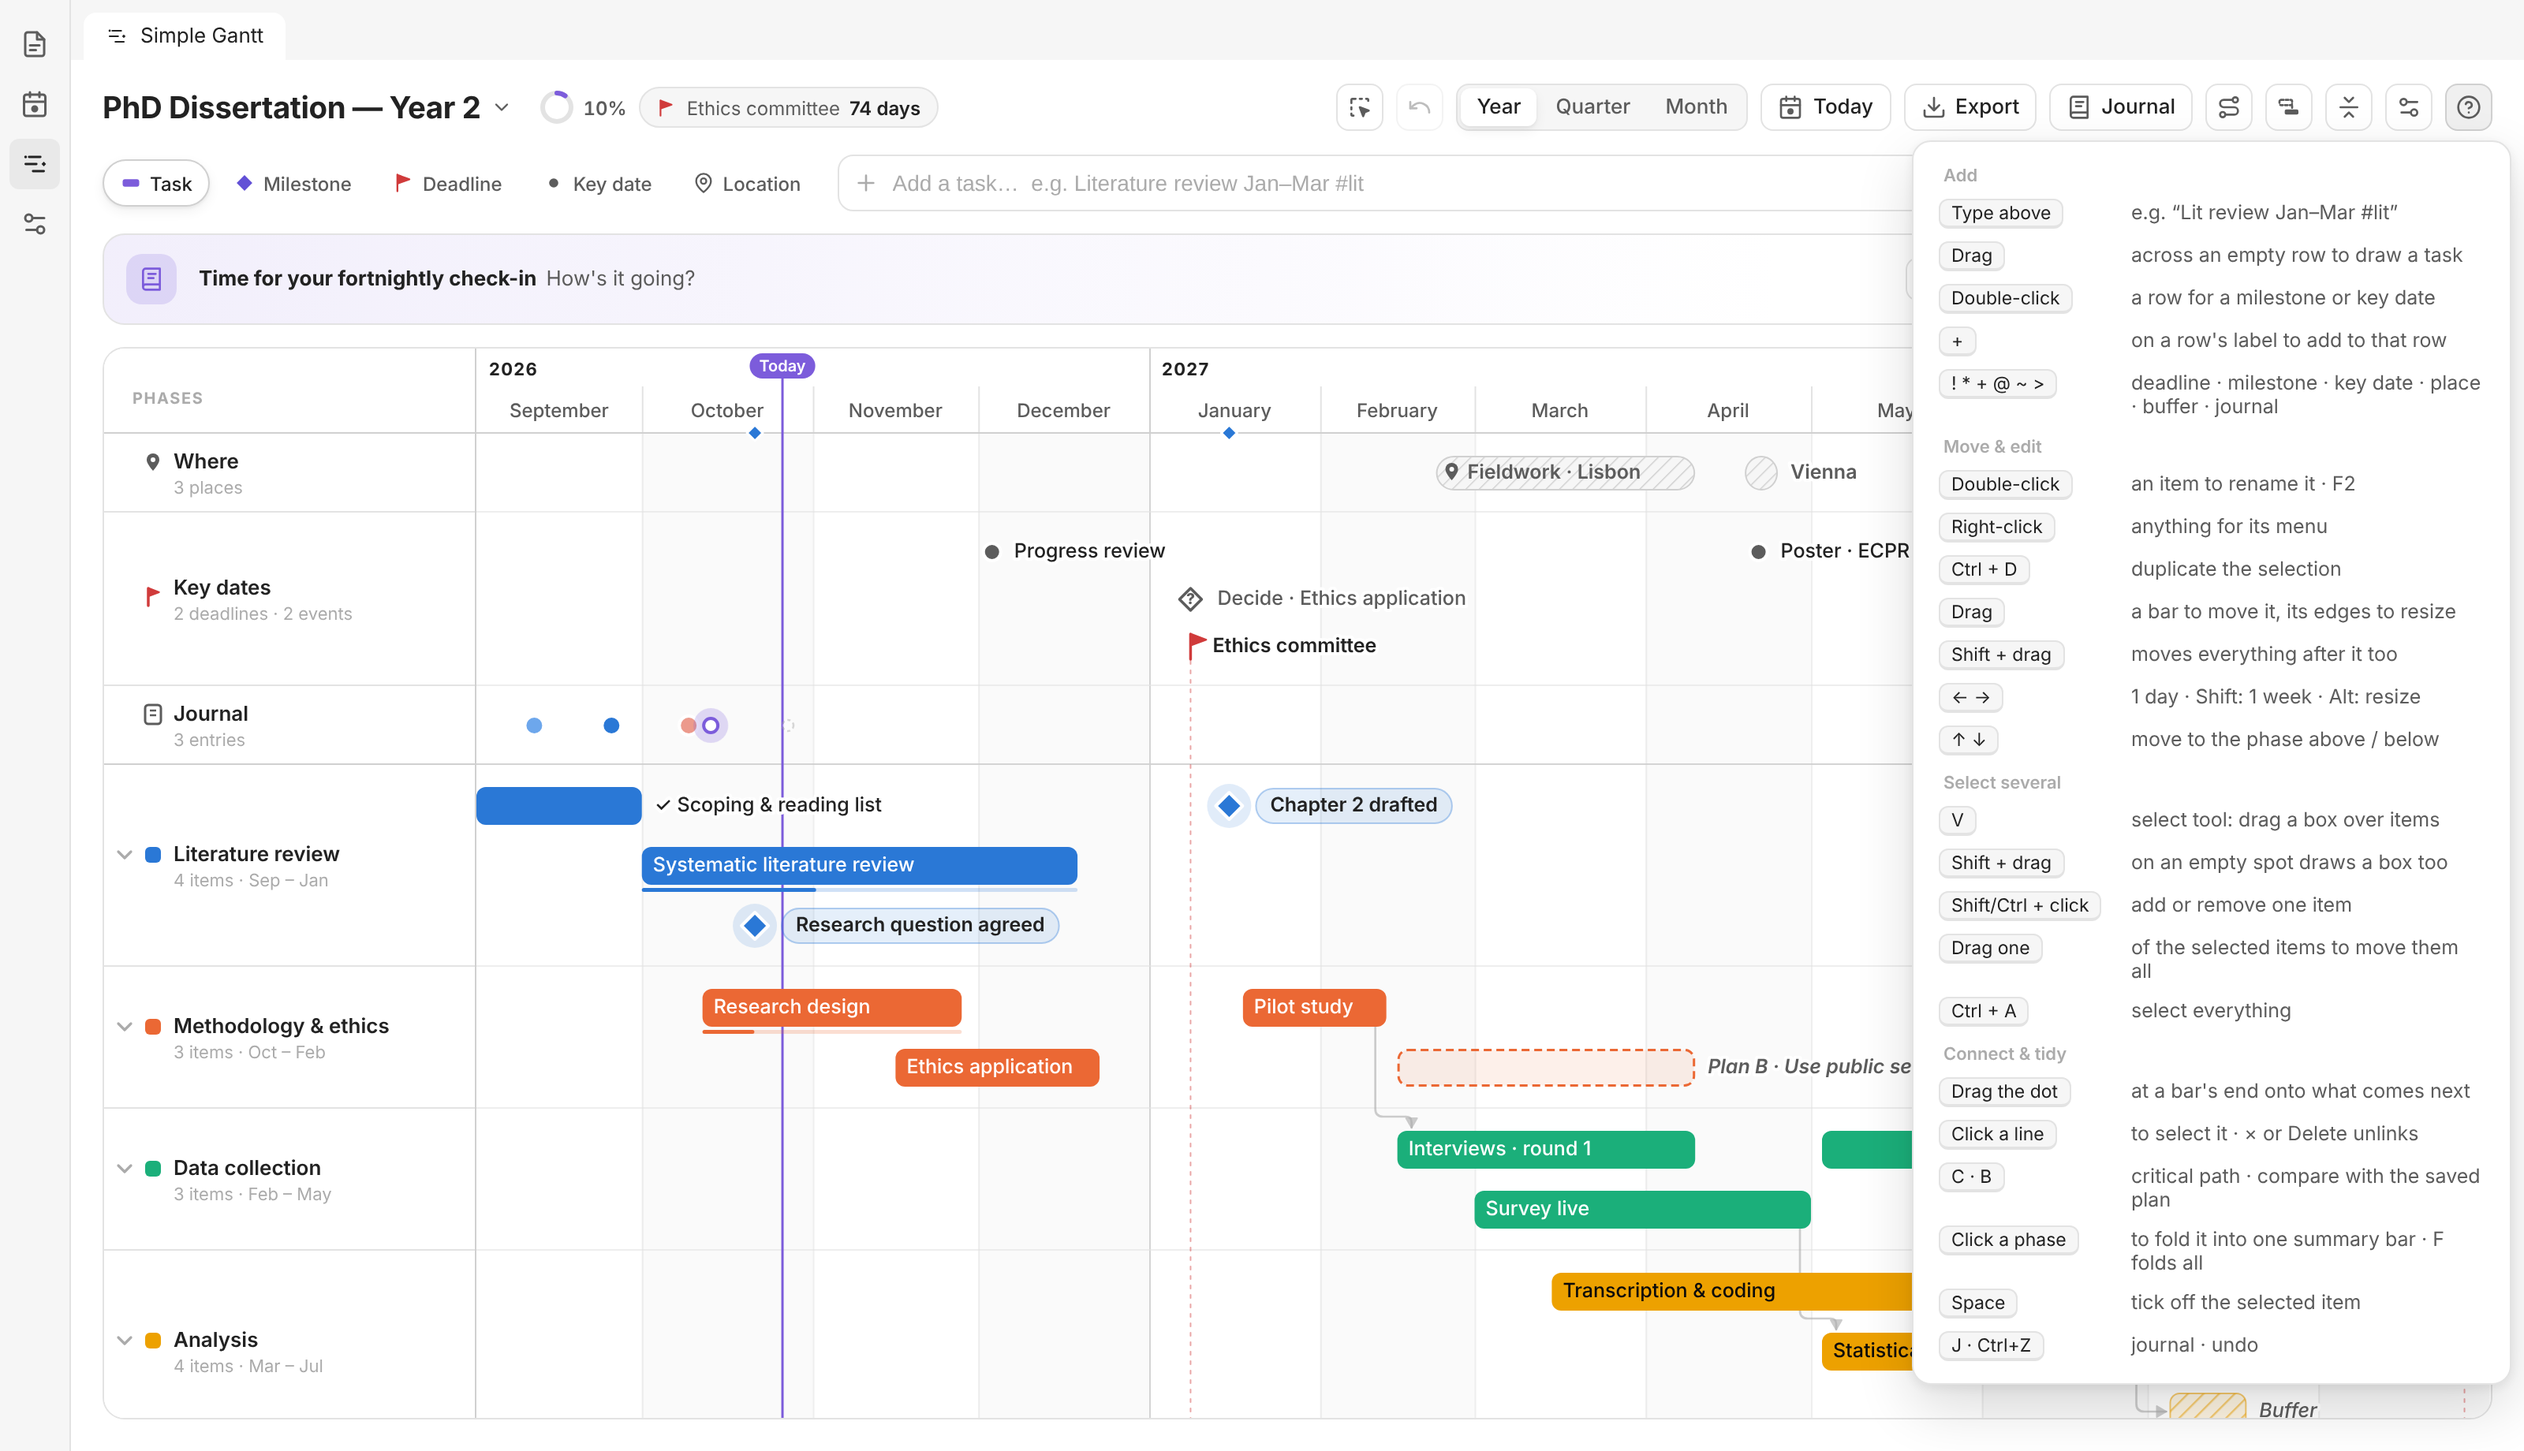
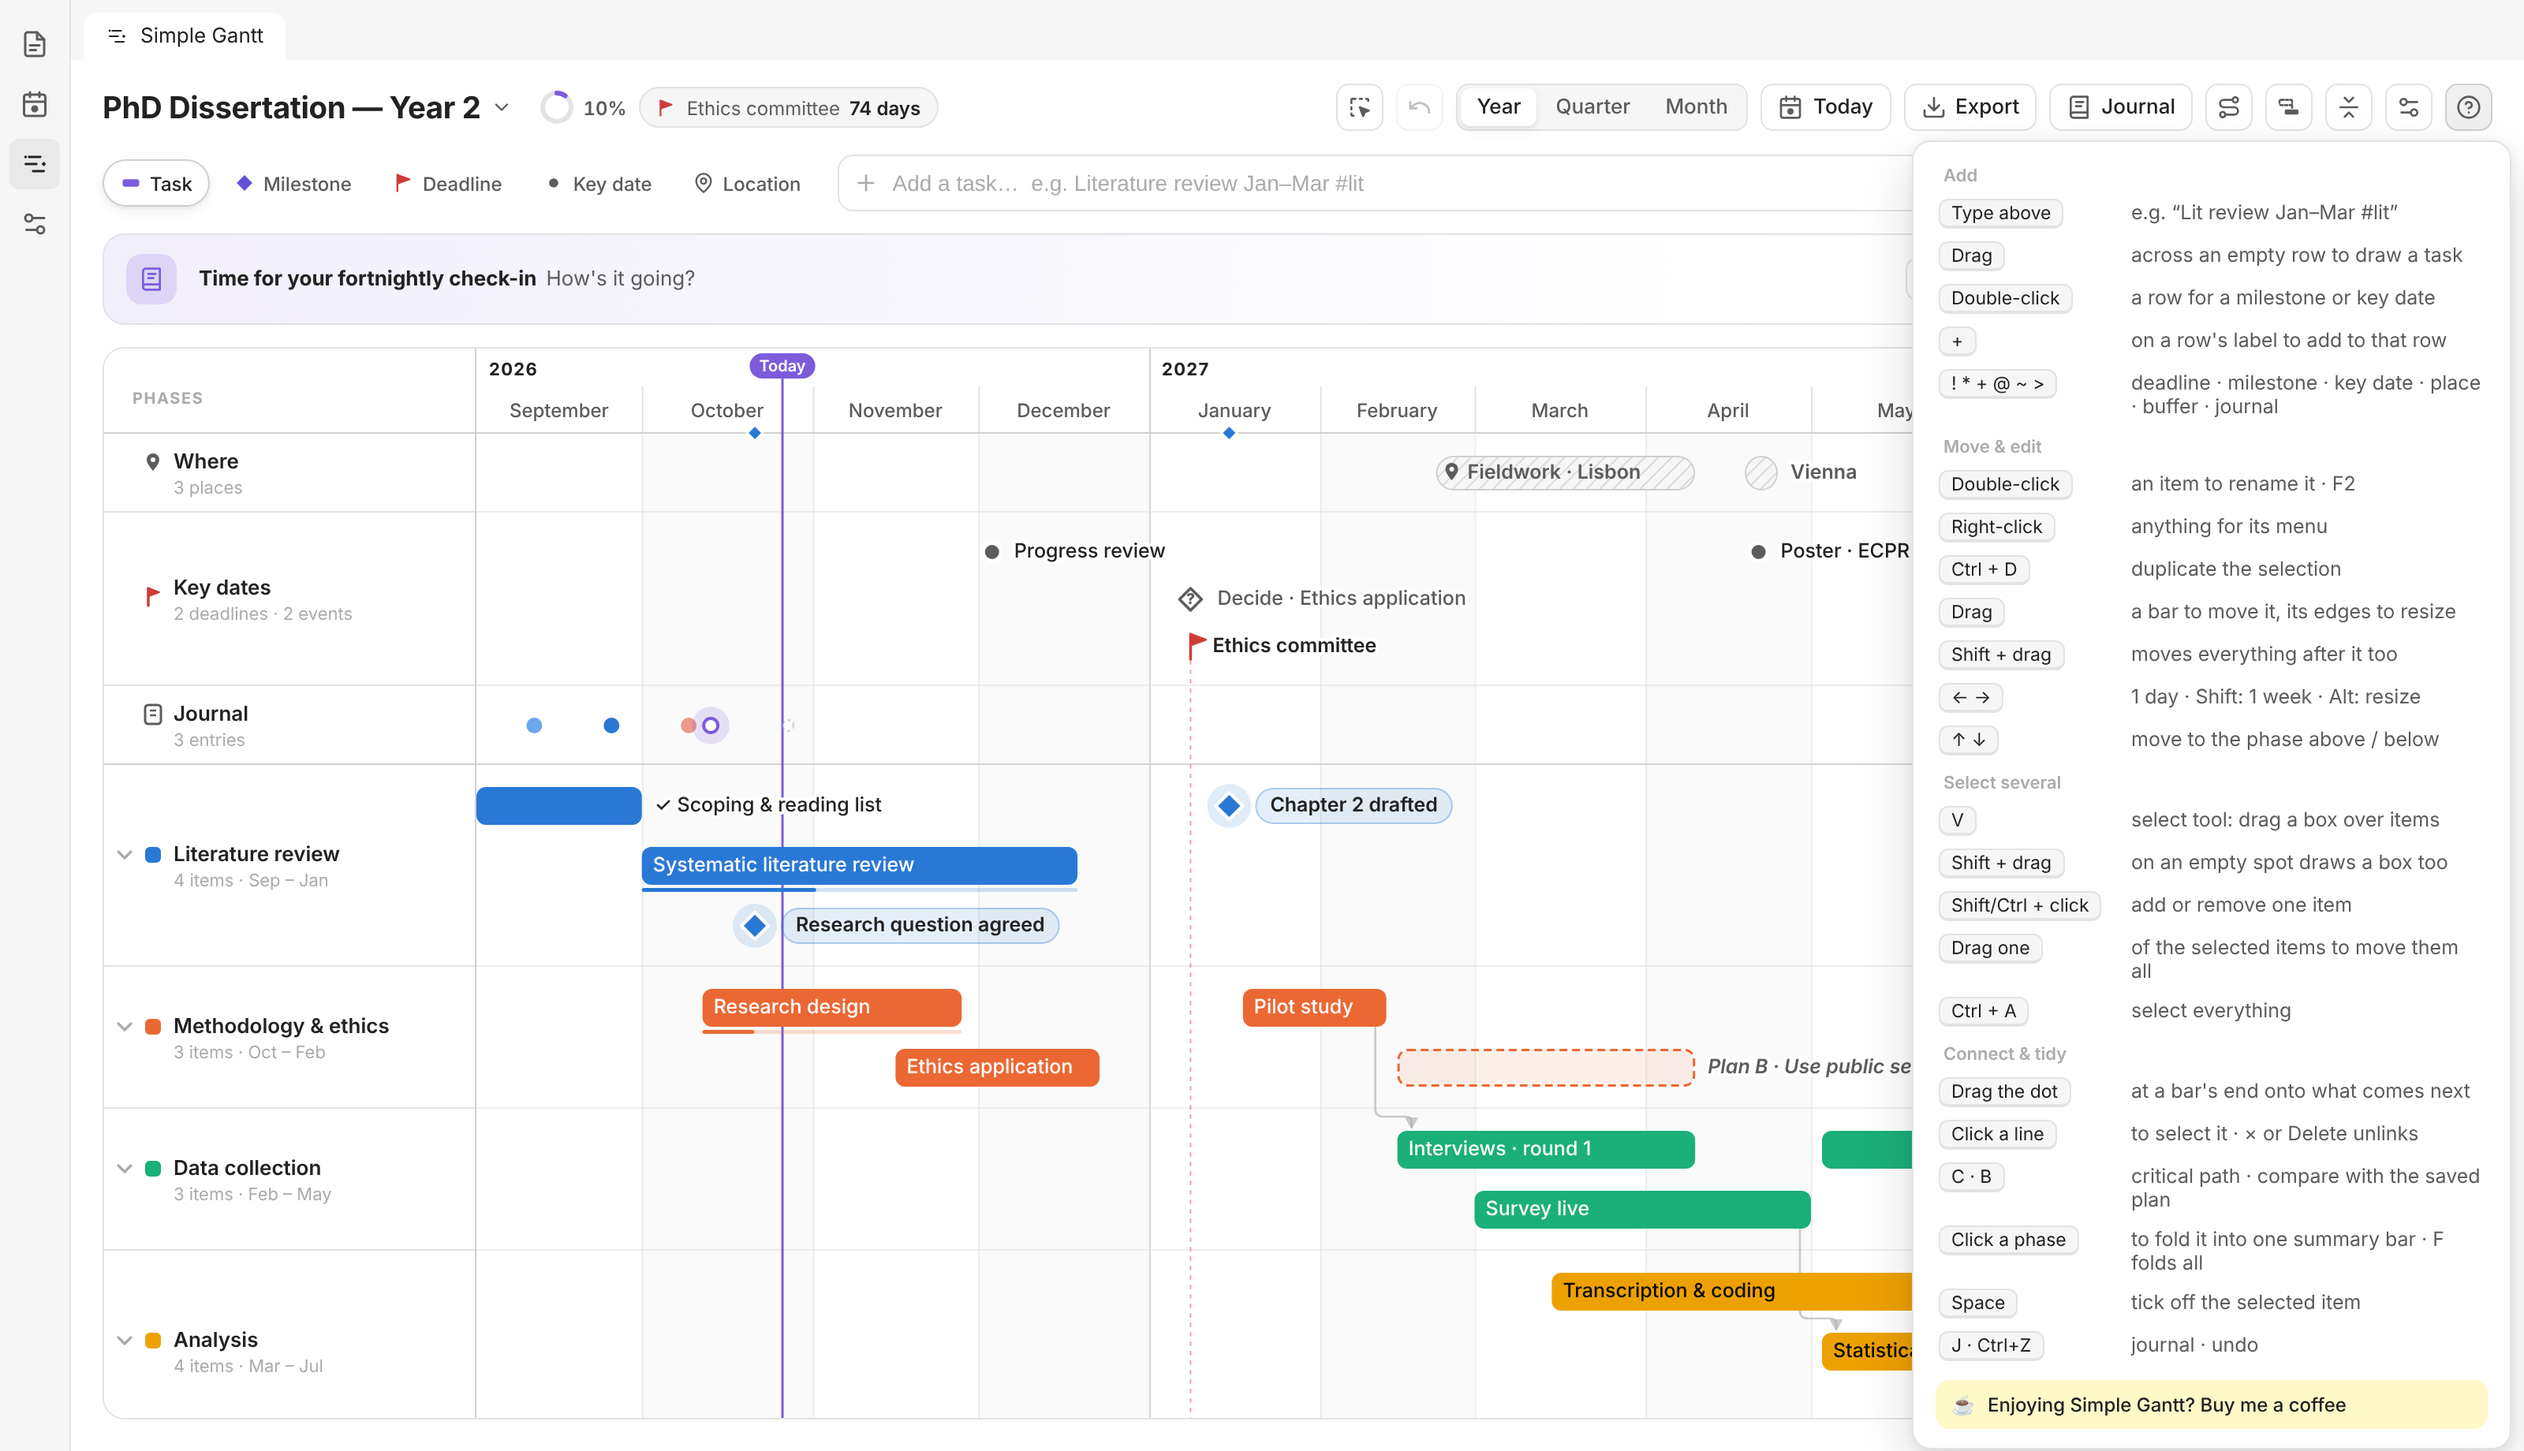
0.6.3: Readable README on every screen, Buy me a coffee
- README: no forced line breaks, highlights as a list instead of a cramped three-column table,
  the item table no longer nested in a list, a real header for the keyboard table, two-column gallery
- Buy me a coffee: badge and button in the README, Obsidian's Donate button (fundingUrl),
  GitHub's Sponsor button (FUNDING.yml), and a small link in the settings and help card
- The help card scrolls on short windows

Changed region(s): [[0.75, 0.9293, 1.0, 1.0]]

diff --git a/src/settings.ts b/src/settings.ts
@@ -1,5 +1,6 @@
 import { App, PluginSettingTab, Setting, SettingDefinitionItem } from "obsidian";
 import type SimpleGanttPlugin from "./main";
+import { SUPPORT_URL } from "./support";
 
 export interface SimpleGanttSettings {
 	/** Folder where new projects are created. */
@@ -37,7 +38,23 @@ export class SimpleGanttSettingTab extends PluginSettingTab {
 				desc: "Where PNG and SVG exports are saved. Leave empty to save next to the timeline note.",
 				control: { type: "folder", key: "exportFolder", placeholder: "Next to the note", includeRoot: true },
 			},
+			{
+				type: "group",
+				heading: "Support",
+				items: [
+					{
+						name: "Enjoying Simple Gantt?",
+						desc: "It's free and open source. If it helps your planning, you can say thanks with a coffee.",
+						aliases: ["donate", "coffee", "support"],
+						render: (setting) => this.coffeeButton(setting),
+					},
+				],
+			},
 		];
+	}
+
+	private coffeeButton(setting: Setting) {
+		setting.addButton((b) => b.setButtonText("☕ Buy me a coffee").onClick(() => window.open(SUPPORT_URL)));
 	}
 
 	getControlValue(key: string): unknown {
@@ -74,5 +91,12 @@ export class SimpleGanttSettingTab extends PluginSettingTab {
 					await this.plugin.saveSettings();
 				}),
 			);
+
+		new Setting(containerEl).setName("Support").setHeading();
+		this.coffeeButton(
+			new Setting(containerEl)
+				.setName("Enjoying Simple Gantt?")
+				.setDesc("It's free and open source. If it helps your planning, you can say thanks with a coffee."),
+		);
 	}
 }

diff --git a/styles.css b/styles.css
@@ -961,7 +961,7 @@
 	cursor: pointer;
 }
 .sg-link-btn:hover { color: var(--text-normal); border-color: var(--interactive-accent); }
-.sg-help { width: 380px; padding: 8px 10px 10px; }
+.sg-help { width: 380px; max-height: calc(100% - var(--sg-menu-y, 8px) - 10px); overflow-y: auto; padding: 8px 10px 10px; }
 .sg-help-row { display: grid; grid-template-columns: 112px 1fr; gap: 10px; align-items: baseline; padding: 4px 6px; font-size: 12.5px; color: var(--text-muted); }
 .sg-help-row kbd {
 	justify-self: start;
@@ -1232,6 +1232,21 @@
 	animation: sg-menu-in 0.15s var(--sg-ease);
 }
 .sg-root .sg-rename:focus { outline: none; box-shadow: 0 0 0 3px color-mix(in srgb, var(--interactive-accent) 25%, transparent), 0 6px 20px rgba(0, 0, 0, 0.16); }
+
+.sg-root .sg-help-support {
+	display: flex;
+	align-items: center;
+	gap: 8px;
+	margin: 8px 4px 2px;
+	padding: 8px 10px;
+	border-radius: 9px;
+	background: color-mix(in srgb, #ffdd00 22%, transparent);
+	color: var(--text-normal);
+	font-size: 12px;
+	font-weight: 500;
+	text-decoration: none;
+}
+.sg-root .sg-help-support:hover { background: color-mix(in srgb, #ffdd00 38%, transparent); }
 
 @container (max-width: 1240px) {
 	.sg-countdown span { display: none; }

diff --git a/src/ui/board.ts b/src/ui/board.ts
@@ -16,6 +16,7 @@ import {
 } from "../core/types";
 import { confetti } from "./confetti";
 import { icon } from "./icons";
+import { SUPPORT_URL } from "../support";
 
 type PanelFocus = "title" | "review" | "planb" | null;
 
@@ -1693,6 +1694,11 @@ export class GanttBoard {
 				["Space", "tick off the selected item"],
 				["J · Ctrl+Z", "journal · undo"],
 			]);
+			h("a", {
+				cls: "sg-help-support",
+				kids: [span("☕"), span("Enjoying Simple Gantt? Buy me a coffee")],
+				attrs: { href: SUPPORT_URL, target: "_blank", rel: "noopener" },
+			}, menu);
 		});
 	}
 

diff --git a/src/support.ts b/src/support.ts
@@ -1,0 +1,2 @@
+/** Where "Buy me a coffee" goes (also the manifest's fundingUrl). */
+export const SUPPORT_URL = "https://buymeacoffee.com/nexsiz";

diff --git a/README.md b/README.md
@@ -7,11 +7,9 @@
 
 <h1 align="center">Simple Gantt</h1>
 
-<p align="center">
-  <b>A calm, beautiful Gantt chart for Obsidian.</b><br>
-  Plan a project, or a whole dissertation year, on one timeline. Your plan stays a normal note,<br>
-  and one click gives you a print-ready chart for your report.
-</p>
+<p align="center"><b>A calm, beautiful Gantt chart for Obsidian.</b></p>
+
+<p align="center">Plan a project, or a whole dissertation year, on one timeline. Your plan stays a normal note, and one click gives you a print-ready chart for your report.</p>
 
 <p align="center">
   <a href="https://github.com/Nexziz/simple-gantt/releases/latest"><img alt="Latest release" src="https://img.shields.io/github/v/release/Nexziz/simple-gantt?style=flat-square&color=7c5cff&label=release"></a>
@@ -19,6 +17,7 @@
   <img alt="Obsidian 1.7.2 or newer" src="https://img.shields.io/badge/Obsidian-1.7.2%2B-483699?style=flat-square&logo=obsidian&logoColor=white">
   <img alt="Works on mobile" src="https://img.shields.io/badge/mobile-yes-555?style=flat-square">
   <a href="LICENSE"><img alt="MIT license" src="https://img.shields.io/github/license/Nexziz/simple-gantt?style=flat-square&color=555"></a>
+  <a href="https://buymeacoffee.com/nexsiz"><img alt="Buy me a coffee" src="https://img.shields.io/badge/Buy%20me%20a%20coffee-FFDD00?style=flat-square&logo=buymeacoffee&logoColor=black"></a>
 </p>
 
 <p align="center">
@@ -27,25 +26,13 @@
   <a href="#quick-add">Quick add</a> ·
   <a href="#keyboard-and-mouse">Keyboard &amp; mouse</a> ·
   <a href="#where-your-data-lives">Your data</a> ·
-  <a href="#install">Install</a>
+  <a href="#install">Install</a> ·
+  <a href="#support">Support</a>
 </p>
 
-<table>
-  <tr>
-    <td width="33%" valign="top">
-      <h3>⚡ One line to add anything</h3>
-      Type <code>Interviews 3–28 May #data</code> and it lands in the right phase on the right dates. Deadlines, milestones, places and journal notes work the same way.
-    </td>
-    <td width="33%" valign="top">
-      <h3>🖐 Drag, link, tick off</h3>
-      Move and resize bars, select several like on a Canvas, and link steps so a delay pushes what comes after. Ticking something off gets you confetti.
-    </td>
-    <td width="33%" valign="top">
-      <h3>📄 Just a note</h3>
-      Each timeline is a Markdown note with readable YAML. It syncs, works with git, and is still there if you ever uninstall the plugin. No accounts, no network.
-    </td>
-  </tr>
-</table>
+- ⚡ **One line to add anything.** Type `Interviews 3–28 May #data` and it lands in the right phase on the right dates. Deadlines, milestones, places and journal notes work the same way.
+- 🖐 **Drag, link, tick off.** Move and resize bars, select several like on a Canvas, and link steps so a delay pushes what comes after. Ticking something off gets you confetti.
+- 📄 **Just a note.** Each timeline is a Markdown note with readable YAML. It syncs, works with git, and is still there if you ever uninstall the plugin. No accounts, no network.
 
 ## See it in action
 
@@ -94,16 +81,15 @@ Year, quarter or month, with smooth zooming. Fold a phase into one summary bar, 
 <details open>
 <summary><b>Plan</b></summary>
 
-- **Year overview first.** The board opens on the whole project with a today line. Zoom to **Quarter** or **Month**, or use Ctrl/Cmd + scroll.
-- **Five kinds of items**
+| Item | Used for |
+|---|---|
+| ▬ **Task** | Work over a period, grouped into colour-coded phases. Optional progress. |
+| ◆ **Milestone** | A moment you reach, e.g. "Chapter 2 drafted". |
+| ⚑ **Deadline** | A hard date: a red flag with a dashed rule through the whole chart. |
+| ● **Key date** | Meetings, reviews, conferences. |
+| ⌖ **Location** | Where you'll be: fieldwork, trips, retreats. |
 
-  | | Item | Used for |
-  |---|---|---|
-  | ▬ | **Task** | Work over a period, grouped into colour-coded phases. Optional progress. |
-  | ◆ | **Milestone** | A moment you reach, e.g. "Chapter 2 drafted". |
-  | ⚑ | **Deadline** | A hard date: a red flag with a dashed rule through the whole chart. |
-  | ● | **Key date** | Meetings, reviews, conferences. |
-  | ⌖ | **Location** | Where you'll be: fieldwork, trips, retreats. |
+- **Year overview first.** The board opens on the whole project with a today line. Zoom to **Quarter** or **Month**, or use Ctrl/Cmd + scroll.
 - **Quick add** understands dates, durations, phases, types and progress (see [Quick add](#quick-add)).
 - **Right-click an empty row** to add a task, milestone, deadline or place exactly there, with its name ready to type.
 - **Buffer time:** plan slack for the delays that always come (hatched bars, `~` in quick add).
@@ -156,13 +142,13 @@ Year, quarter or month, with smooth zooming. Fold a phase into one summary bar, 
 - Follows your Obsidian theme (light and dark), and works on mobile.
 </details>
 
-| Print export | Dark, quarter zoom | Journal |
-|---|---|---|
-| ![Export](docs/images/01-export-light.png) | ![Dark](docs/images/05-dark-quarter.png) | ![Journal](docs/images/13-journal.png) |
-
-| Plan B | Editing | Features on/off |
-|---|---|---|
-| ![Plan B](docs/images/12-plan-b.png) | ![Edit panel](docs/images/04-edit-panel.png) | ![Features](docs/images/19-features.png) |
+| Print export | Dark, quarter zoom |
+|---|---|
+| ![Export](docs/images/01-export-light.png) | ![Dark](docs/images/05-dark-quarter.png) |
+| **Journal** | **Plan B** |
+| ![Journal](docs/images/13-journal.png) | ![Plan B](docs/images/12-plan-b.png) |
+| **Editing** | **Features on/off** |
+| ![Edit panel](docs/images/04-edit-panel.png) | ![Features](docs/images/19-features.png) |
 
 ## Quick add
 
@@ -188,7 +174,7 @@ Type a title and a date; everything else is optional.
 
 ## Keyboard and mouse
 
-| | |
+| Gesture or key | What it does |
 |---|---|
 | **Drag** an empty row | Draw a task |
 | **Double-click** an empty row | Add a milestone or key date |
@@ -283,6 +269,14 @@ npm run gifs         # records the GIFs in docs/gifs and the hero images (needs 
 - `src/core/` holds the logic: dates, the quick-add parser, layout, links and slack, the saved plan, SVG rendering, and YAML (de)serialisation.
 - `src/ui/board.ts` is the interactive board.
 - `src/view.ts` and `src/main.ts` connect it all to Obsidian.
+
+## Support
+
+Simple Gantt is free and open source. If it helps you plan your dissertation or your project, you can say thanks with a coffee. It keeps the updates coming ☕
+
+<a href="https://buymeacoffee.com/nexsiz"><img src="docs/images/buy-me-a-coffee.png" alt="Buy me a coffee" height="52"></a>
+
+Bug reports and ideas are welcome too, in [Issues](https://github.com/Nexziz/simple-gantt/issues).
 
 ## License
 
